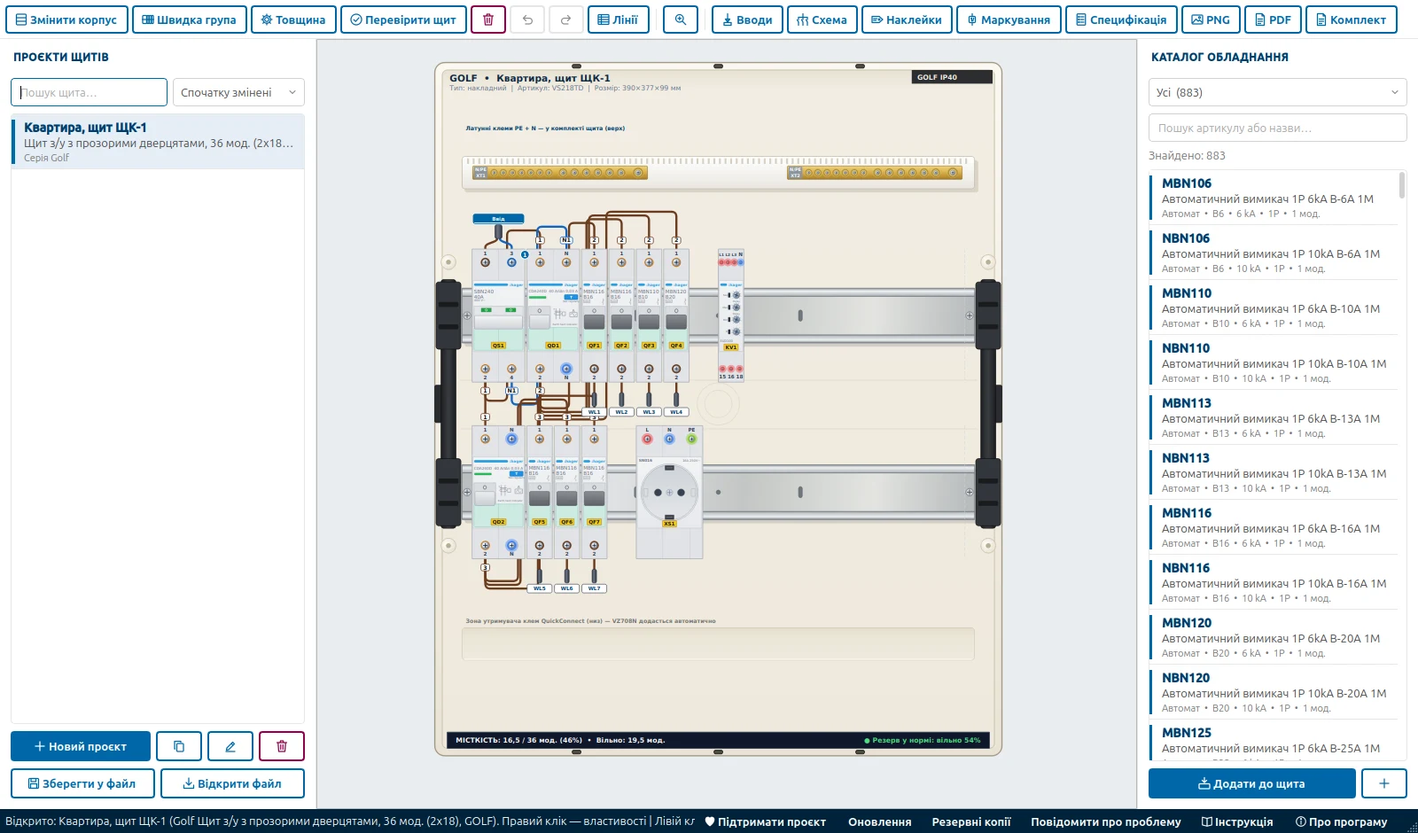
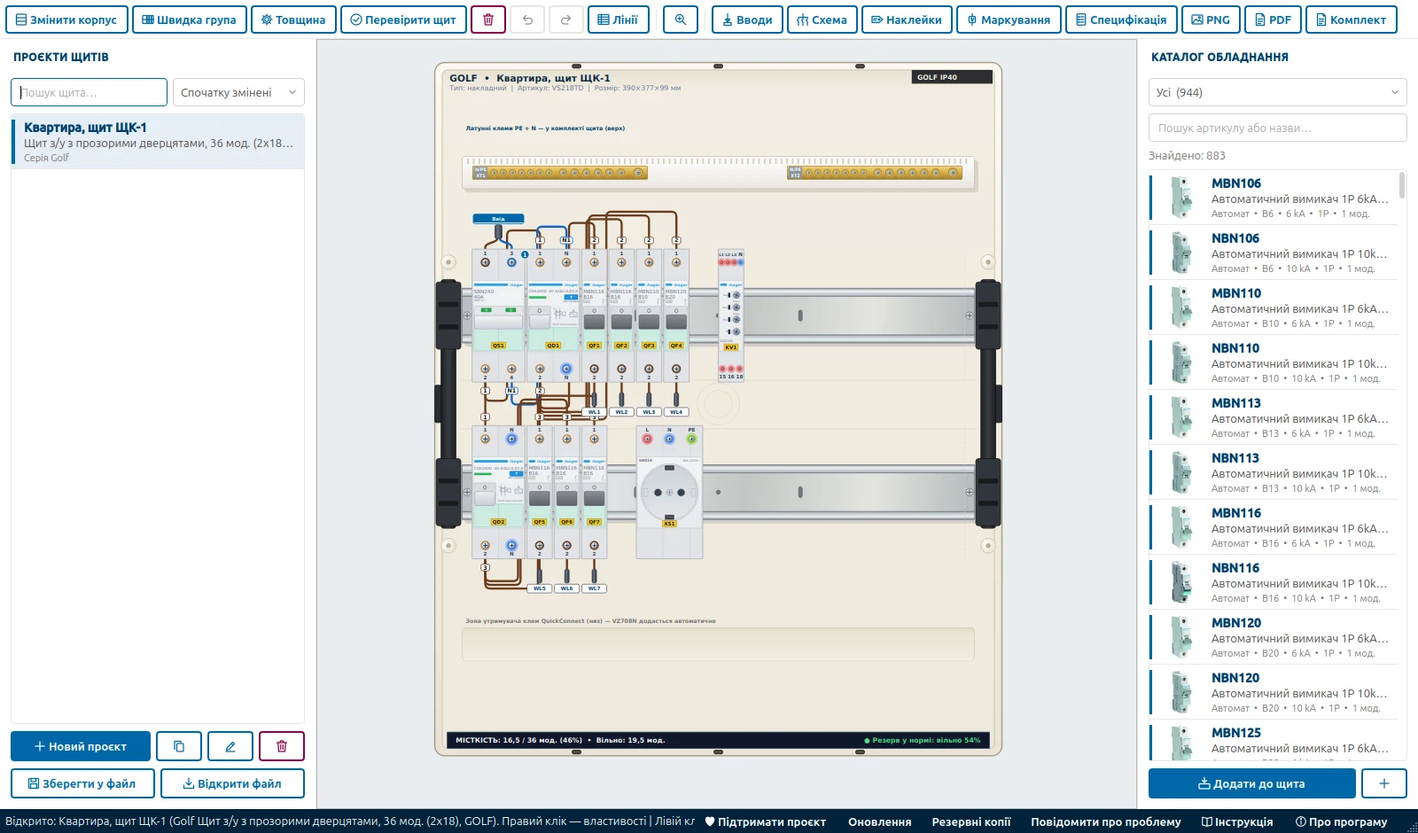
Оновлення сайту

Changed region(s): [[0.8125, 0.216, 0.9688, 0.9255]]

diff --git a/guide/index.html b/guide/index.html
@@ -42,6 +42,7 @@
       <li><a href="#install">Встановлення</a></li>
       <li><a href="#window">Головне вікно</a></li>
       <li><a href="#project">Новий щит і корпус</a></li>
+      <li><a href="#universn">Щити Univers N</a></li>
       <li><a href="#devices">Апарати на DIN-рейках</a></li>
       <li><a href="#properties">Властивості апарата</a></li>
       <li><a href="#custom">Власні прилади</a></li>
@@ -70,7 +71,7 @@
 
     <h2 id="install">1. Встановлення</h2>
     <ol>
-      <li><a href="https://github.com/YevgenZhylenkov/enclosure-designer-releases/releases/download/v2.11-beta/EnclosureDesigner-Setup-2.11-beta.exe">Завантажте інсталятор</a> (Windows 10 / 11, 64-біт).</li>
+      <li><a href="https://github.com/YevgenZhylenkov/enclosure-designer-releases/releases/download/v2.13-beta/EnclosureDesigner-Setup-2.13-beta.exe">Завантажте інсталятор</a> (Windows 10 / 11, 64-біт).</li>
       <li>Запустіть файл <code>EnclosureDesigner-Setup-….exe</code>. Права адміністратора не потрібні — програма
         встановлюється для поточного користувача.</li>
       <li>Якщо з'явиться синє вікно <b>«Windows захистив ваш комп'ютер»</b>, натисніть <b>«Докладніше»</b> →
@@ -102,7 +103,7 @@
     <ol>
       <li>Натисніть <b>«Новий проєкт»</b>.</li>
       <li>Вкажіть <b>назву</b> (наприклад, «Квартира, ЩК-1»), <b>мережу живлення</b> — однофазну чи трифазну,
-        <b>серію щита</b> (Volta, Golf, Vega, Cosmos, Vector, Univers FW…) і конкретний <b>артикул</b> корпусу. У полі «Параметри»
+        <b>серію щита</b> (Volta, Golf, Vega, Cosmos, Vector, Univers FW, Univers N…) і конкретний <b>артикул</b> корпусу. У полі «Параметри»
         видно кількість рядів, модулів і розміри.</li>
       <li>Натисніть «Створити» — щит з'явиться по центру. Комплектні клеми N / PE і тримачі клем, що входять у корпус,
         програма додає сама. Латунні клеми N і PE щитів Golf, Vega і Cosmos стоять на одному тримачі: перетягніть одну з них —
@@ -135,11 +136,43 @@
       У тому ж меню — «Перейменувати…», «Примітка до щита…» (див. <a href="#notes">підписи й примітки</a>),
       «Зберегти у файл…», «Видалити щит».</p>
 
+    <h3 id="universn">Щити Univers N</h3>
+    <p>Щити Univers N (FP…SN2) — навісні висотою від 500 до 1700 мм на 1–5 секцій і на підлогу FP21SN2…FP25SN2
+      (шафа 1850 мм на цоколі 100 мм). Такий щит постачається <b>порожнім</b>: усередині — сітка ячейок 250 × 150 мм,
+      DIN-рейок немає. Рейки приходять разом із <b>блоками</b> Univers N, а апарати ставляться на рейки блоків.</p>
+    <ol>
+      <li>Відкрийте щит Univers N — у списку категорій каталогу з'явиться розділ <b>«Univers N»</b>: несучі шини
+        UN02A…UN12A і блоки UD… (для модульних апаратів, клемників, з монтажною плитою, порожні тощо).</li>
+      <li>Перетягніть блок у сітку щита або клацніть по ньому двічі — він стане в перше вільне місце згори.
+        Якщо під блоком ще немає несучих шин, програма поставить їх сама найдешевшим способом: комплект на всю
+        висоту секції, для блока 500 мм — комплект на дві секції. Де шини стикуються по висоті, у специфікацію
+        додаються поперечина UT12PN / UT12QN і з'єднувачі UT90F. Шини можна поставити й самому: перетягніть
+        комплект у секцію (для блоків 250 мм) або на лінію між секціями (для блоків 500 мм).</li>
+      <li>Апарати ставляться на рейки блоків як звичайно: з каталогу, перетягуванням (і з блока на блок), шинами KDN,
+        проводами, розводкою, швидкою групою й заготовками. Ряди щита — це рейки блоків згори вниз, зліва направо.
+        Усередині блока рамка виділення тягнеться, як на вільному місці щита: виділяються лише апарати, а сам блок
+        виділяється клацанням по його шапці з артикулом або по краю. Рамка, що зачепила лише частину блока,
+        виділяє апарати на ньому; щоб виділити блок разом з апаратами, обведіть його рамкою цілком. Так само
+        рамка виділяє несучі шини — лише якщо охоплює обидві шини комплекту на всю висоту; клацанням шини
+        виділяються лише там, де їх не закриває блок.</li>
+      <li>Блоки UD21B4 і UD31B4 мають над рейками дві латунні шини N і PE з клемами 4 мм² (2 × 13 і 2 × 22) — вони
+        ставляться разом із блоком і, як і полоси-заглушки ZZ35S / ZZ34S з комплекту блоків UD21B5, UD11A4 та UD21A4,
+        потрапляють у специфікацію як такі, що входять у комплект блоків і окремо не замовляються. Вільні прорізи кришок
+        можна закрити заглушками S35S чи ZZ35S з розділу «Заглушка».</li>
+    </ol>
+    <p>Видалити блок — правий клік по ньому → «Видалити блок» (разом з апаратами на його рейках і їхніми проводами).
+      Несучі шини — правий клік → «Видалити несучі шини»; шини, на яких тримаються блоки, програма не видалить,
+      поки стоять ці блоки (виділіть і видаліть їх разом). «Змінити корпус» переводить щит лише в інший щит Univers N:
+      блоки мають уміститися в його сітку, шини на всю висоту замінюються комплектом під нову висоту.</p>
+    <p>Вертикальні шини KCL / KCF / KCN у щит Univers N не підходять: вони з'єднують ряди з кроком 125 мм, а рейки
+      блоків стоять через 150 мм — ряди з'єднуйте проводами. Наклейки на пластрон робляться по рейках блоків, а на
+      аркуші зовнішнього вигляду в комплекті документів видно кришки блоків з апаратами в прорізах.</p>
+
     <h2 id="devices">4. Апарати на DIN-рейках</h2>
     <h3>Пошук у каталозі</h3>
     <p>Оберіть категорію у списку над каталогом (автомати, автомати з дуговим захистом, ПЗВ, диф. автомати, ДАВ з дуговим захистом, реле, розетки…) або введіть
       артикул чи частину назви в поле пошуку, наприклад <code>MBN116</code> або <code>ПЗВ 40</code>. Під кожною
-      позицією видно характеристику, номінал, полюси й ширину в модулях. Фільтри під пошуком звужують список
+      позицією видно мініатюру апарата, характеристику, номінал, полюси й ширину в модулях. Фільтри під пошуком звужують список
       за полюсами, характеристикою, номіналом, струмом витоку, типом ПЗВ і відключною здатністю (kA).</p>
     <h3>Додавання на щит</h3>
     <ul>
@@ -642,7 +675,7 @@
     <div>
       <a href="../guide/">Інструкція</a> •
       <a href="../changelog/">Історія версій</a> •
-      <a href="https://github.com/YevgenZhylenkov/enclosure-designer-releases/releases/download/v2.11-beta/EnclosureDesigner-Setup-2.11-beta.exe">Завантажити</a> •
+      <a href="https://github.com/YevgenZhylenkov/enclosure-designer-releases/releases/download/v2.13-beta/EnclosureDesigner-Setup-2.13-beta.exe">Завантажити</a> •
       <a href="https://donatello.to/enclosure_designer" target="_blank" rel="noopener">Підтримати</a><br>
       Зворотний зв'язок: <a href="mailto:yevhen.zhylenkov@gmail.com">yevhen.zhylenkov@gmail.com</a>
     </div>

diff --git a/index.html b/index.html
@@ -44,11 +44,11 @@
       <p class="lead">Зберіть модульний електрощит на екрані: корпус, апарати на DIN-рейках, проводи з маркуванням —
         і отримайте специфікацію з цінами та наклейки на пластрон за кілька хвилин.</p>
       <div class="cta">
-        <a class="btn big" href="https://github.com/YevgenZhylenkov/enclosure-designer-releases/releases/download/v2.11-beta/EnclosureDesigner-Setup-2.11-beta.exe"><svg viewBox="0 0 24 24" fill="none" stroke="currentColor" stroke-width="2" stroke-linecap="round" stroke-linejoin="round" aria-hidden="true"><path d="M21 15v4a2 2 0 0 1-2 2H5a2 2 0 0 1-2-2v-4"/><polyline points="7 10 12 15 17 10"/><line x1="12" y1="15" x2="12" y2="3"/></svg>Завантажити для Windows</a>
+        <a class="btn big" href="https://github.com/YevgenZhylenkov/enclosure-designer-releases/releases/download/v2.13-beta/EnclosureDesigner-Setup-2.13-beta.exe"><svg viewBox="0 0 24 24" fill="none" stroke="currentColor" stroke-width="2" stroke-linecap="round" stroke-linejoin="round" aria-hidden="true"><path d="M21 15v4a2 2 0 0 1-2 2H5a2 2 0 0 1-2-2v-4"/><polyline points="7 10 12 15 17 10"/><line x1="12" y1="15" x2="12" y2="3"/></svg>Завантажити для Windows</a>
         <a class="btn big ghost" href="guide/">Інструкція</a>
       </div>
       <p class="meta">
-        Версія <b>2.11-beta</b>         • <b>28,1 МБ</b>        • без реєстрації • без прав адміністратора
+        Версія <b>2.13-beta</b>         • <b>29,5 МБ</b>        • без реєстрації • без прав адміністратора
       </p>
       <p class="beta"><b>Програма ще в розробці (бета-версія).</b> Можливі помилки, збої та неточності — у каталозі,
         цінах, схемах і розрахунках. Перевіряйте результат і <a href="mailto:yevhen.zhylenkov@gmail.com">повідомляйте про
@@ -68,6 +68,8 @@
     <div class="grid c3">
       <div class="card"><div class="ico"><svg viewBox="0 0 24 24" fill="none" stroke="currentColor" stroke-width="2" stroke-linecap="round" stroke-linejoin="round" aria-hidden="true"><rect x="3" y="3" width="18" height="18" rx="2"/><line x1="3" y1="9" x2="21" y2="9"/><line x1="3" y1="15" x2="21" y2="15"/></svg></div><h3>Корпуси Hager</h3>
         <p>Volta, Golf, Vega, Cosmos, Vector, Univers FW та інші — з реальною кількістю рядів і модулів. Корпус можна змінити будь-коли, апарати лишаться на місцях.</p></div>
+      <div class="card"><div class="ico"><svg viewBox="0 0 24 24" fill="none" stroke="currentColor" stroke-width="2" stroke-linecap="round" stroke-linejoin="round" aria-hidden="true"><polygon points="12 2 2 7 12 12 22 7 12 2"/><polyline points="2 17 12 22 22 17"/><polyline points="2 12 12 17 22 12"/></svg></div><h3>Щити Univers N</h3>
+        <p>Порожній щит із сіткою ячейок: блоки для апаратів, клемників і монтажних плит стають у сітку, несучі шини під них програма підбирає сама — найдешевшим способом. Апарати — на рейках блоків, у специфікації — блоки, шини й усе, що входить у комплект.</p></div>
       <div class="card"><div class="ico"><svg viewBox="0 0 24 24" fill="none" stroke="currentColor" stroke-width="2" stroke-linecap="round" stroke-linejoin="round" aria-hidden="true"><rect x="3" y="6" width="4" height="12" rx="1"/><rect x="8.5" y="6" width="4" height="12" rx="1"/><rect x="14" y="6" width="7" height="12" rx="1"/></svg></div><h3>Каталог апаратів</h3>
         <p>Сотні позицій офіційного каталогу Hager з фільтрами й пошуком за артикулом. Перетягніть апарат на рейку — програма не дасть вийти за межі чи накласти апарати.</p></div>
       <div class="card"><div class="ico"><svg viewBox="0 0 24 24" fill="none" stroke="currentColor" stroke-width="2" stroke-linecap="round" stroke-linejoin="round" aria-hidden="true"><circle cx="5" cy="6" r="2"/><circle cx="19" cy="18" r="2"/><path d="M5 8v6a4 4 0 0 0 4 4h8"/></svg></div><h3>Проводи і маркування</h3>
@@ -181,10 +183,10 @@
       <p>Інсталятор для Windows 10 / 11 (64-біт). Встановлюється без прав адміністратора, подальші оновлення програма
         пропонує сама.</p>
       <div class="cta">
-        <a class="btn big" href="https://github.com/YevgenZhylenkov/enclosure-designer-releases/releases/download/v2.11-beta/EnclosureDesigner-Setup-2.11-beta.exe"><svg viewBox="0 0 24 24" fill="none" stroke="currentColor" stroke-width="2" stroke-linecap="round" stroke-linejoin="round" aria-hidden="true"><path d="M21 15v4a2 2 0 0 1-2 2H5a2 2 0 0 1-2-2v-4"/><polyline points="7 10 12 15 17 10"/><line x1="12" y1="15" x2="12" y2="3"/></svg>Завантажити інсталятор</a>
+        <a class="btn big" href="https://github.com/YevgenZhylenkov/enclosure-designer-releases/releases/download/v2.13-beta/EnclosureDesigner-Setup-2.13-beta.exe"><svg viewBox="0 0 24 24" fill="none" stroke="currentColor" stroke-width="2" stroke-linecap="round" stroke-linejoin="round" aria-hidden="true"><path d="M21 15v4a2 2 0 0 1-2 2H5a2 2 0 0 1-2-2v-4"/><polyline points="7 10 12 15 17 10"/><line x1="12" y1="15" x2="12" y2="3"/></svg>Завантажити інсталятор</a>
       </div>
       <p class="meta">
-        Версія <b>2.11-beta</b>         • розмір <b>28,1 МБ</b>        • програма в стадії бета-тестування
+        Версія <b>2.13-beta</b>         • розмір <b>29,5 МБ</b>        • програма в стадії бета-тестування
       </p>
       <ul class="small">
         <li>Якщо Windows SmartScreen покаже «Windows захистив ваш комп'ютер» — натисніть «Докладніше» → «Усе одно запустити».
@@ -193,8 +195,8 @@
       </ul>
     </div>
         <div class="notes">
-      <h3>Що нового у версії 2.11-beta</h3>
-      <ul><li>вертикальні шини KCL, KCF, KCN з&#039;єднують апарати 2–4 рядів щита;</li><li>вилочні шини KD303M / KD304M і клемник живлення KF30M для автоматів захисту двигуна;</li><li>додаткові контакти й розчіплювачі автоматів захисту двигуна (MZ520N, MZ527N, MZ523N, MZ528N, MZ529N);</li><li>додатковий контакт ESC080 для контакторів;</li><li>додаткові пристрої MZ — також для дифавтоматів 1P+N і ПЗВ 10 кА, блок-контакт CZ001 для ПЗВ 6 кА;</li><li>прохідні клеми KR025L і KR040L на DIN-рейку;</li><li>автомати й дифавтомати з дуговим захистом — в окремих розділах каталогу;</li><li>у каталозі автоматів — фільтр за відключною здатністю (кА);</li><li>у специфікації — торцеві кришки шин і захисні чохли KZ059 на вільні місця шин;</li><li>однаковий логотип на всіх апаратах.</li></ul>      <p class="small" style="margin:1em 0 0"><a href="changelog/" style="color:#8cc8f0">Уся історія версій →</a></p>
+      <h3>Що нового у версії 2.13-beta</h3>
+      <ul><li>щити Univers N (навісні й на підлогу): блоки з рейками, несучі шини, наклейки, зовнішній вигляд і специфікація;</li><li>рамка виділення бере блок і несучі шини Univers N лише цілком охоплені, а всередині блока — апарати на рейках;</li><li>виділені блок і шини Univers N помітніші;</li><li>у каталозі — мініатюри апаратів.</li></ul>      <p class="small" style="margin:1em 0 0"><a href="changelog/" style="color:#8cc8f0">Уся історія версій →</a></p>
     </div>
       </div>
 </section>
@@ -248,7 +250,7 @@
     <div>
       <a href="guide/">Інструкція</a> •
       <a href="changelog/">Історія версій</a> •
-      <a href="https://github.com/YevgenZhylenkov/enclosure-designer-releases/releases/download/v2.11-beta/EnclosureDesigner-Setup-2.11-beta.exe">Завантажити</a> •
+      <a href="https://github.com/YevgenZhylenkov/enclosure-designer-releases/releases/download/v2.13-beta/EnclosureDesigner-Setup-2.13-beta.exe">Завантажити</a> •
       <a href="https://donatello.to/enclosure_designer" target="_blank" rel="noopener">Підтримати</a><br>
       Зворотний зв'язок: <a href="mailto:yevhen.zhylenkov@gmail.com">yevhen.zhylenkov@gmail.com</a>
     </div>

diff --git a/changelog/index.html b/changelog/index.html
@@ -41,8 +41,12 @@
     або натисніть «Оновлення» в рядку стану.</p>
   <p class="beta"><b>Програма ще в розробці (бета-версія).</b> Можливі помилки, збої та неточності.
     Про знайдені проблеми пишіть на <a href="mailto:yevhen.zhylenkov@gmail.com">yevhen.zhylenkov@gmail.com</a>.</p>
+    <section class="release" id="v2.13-beta">
+    <h2>Версія 2.13-beta <span class="badge">поточна</span></h2>
+    <p class="muted small">24.11.2026</p>
+    <ul><li>щити Univers N (навісні й на підлогу): блоки з рейками, несучі шини, наклейки, зовнішній вигляд і специфікація;</li><li>рамка виділення бере блок і несучі шини Univers N лише цілком охоплені, а всередині блока — апарати на рейках;</li><li>виділені блок і шини Univers N помітніші;</li><li>у каталозі — мініатюри апаратів.</li></ul>  </section>
     <section class="release" id="v2.11-beta">
-    <h2>Версія 2.11-beta <span class="badge">поточна</span></h2>
+    <h2>Версія 2.11-beta</h2>
     <p class="muted small">22.11.2026</p>
     <ul><li>вертикальні шини KCL, KCF, KCN з&#039;єднують апарати 2–4 рядів щита;</li><li>вилочні шини KD303M / KD304M і клемник живлення KF30M для автоматів захисту двигуна;</li><li>додаткові контакти й розчіплювачі автоматів захисту двигуна (MZ520N, MZ527N, MZ523N, MZ528N, MZ529N);</li><li>додатковий контакт ESC080 для контакторів;</li><li>додаткові пристрої MZ — також для дифавтоматів 1P+N і ПЗВ 10 кА, блок-контакт CZ001 для ПЗВ 6 кА;</li><li>прохідні клеми KR025L і KR040L на DIN-рейку;</li><li>автомати й дифавтомати з дуговим захистом — в окремих розділах каталогу;</li><li>у каталозі автоматів — фільтр за відключною здатністю (кА);</li><li>у специфікації — торцеві кришки шин і захисні чохли KZ059 на вільні місця шин;</li><li>однаковий логотип на всіх апаратах.</li></ul>  </section>
     <section class="release" id="v2.10-beta">
@@ -177,7 +181,7 @@
     <h2>Версія 1.3-beta</h2>
     <p class="muted small">05.11.2026</p>
     <ul><li>однолінійна схема: котушка контактора й контакти з прив&#039;язкою до реле (KM1, KM1.1, KM1.2);</li><li>щити Vector: комплектні клеми, набори VZ461–VZ464 у каталозі;</li><li>номери клем на корпусах апаратів;</li><li>виділений провід підсвічує гвинти своїх клем;</li><li>таймери EHN010 / EHN011: усі клеми знизу у два ряди.</li></ul>  </section>
-    <p><a class="btn" href="https://github.com/YevgenZhylenkov/enclosure-designer-releases/releases/download/v2.11-beta/EnclosureDesigner-Setup-2.11-beta.exe"><svg viewBox="0 0 24 24" fill="none" stroke="currentColor" stroke-width="2" stroke-linecap="round" stroke-linejoin="round" aria-hidden="true"><path d="M21 15v4a2 2 0 0 1-2 2H5a2 2 0 0 1-2-2v-4"/><polyline points="7 10 12 15 17 10"/><line x1="12" y1="15" x2="12" y2="3"/></svg>Завантажити останню версію</a></p>
+    <p><a class="btn" href="https://github.com/YevgenZhylenkov/enclosure-designer-releases/releases/download/v2.13-beta/EnclosureDesigner-Setup-2.13-beta.exe"><svg viewBox="0 0 24 24" fill="none" stroke="currentColor" stroke-width="2" stroke-linecap="round" stroke-linejoin="round" aria-hidden="true"><path d="M21 15v4a2 2 0 0 1-2 2H5a2 2 0 0 1-2-2v-4"/><polyline points="7 10 12 15 17 10"/><line x1="12" y1="15" x2="12" y2="3"/></svg>Завантажити останню версію</a></p>
 </main>
 <footer>
   <div class="wrap">
@@ -186,7 +190,7 @@
     <div>
       <a href="../guide/">Інструкція</a> •
       <a href="../changelog/">Історія версій</a> •
-      <a href="https://github.com/YevgenZhylenkov/enclosure-designer-releases/releases/download/v2.11-beta/EnclosureDesigner-Setup-2.11-beta.exe">Завантажити</a> •
+      <a href="https://github.com/YevgenZhylenkov/enclosure-designer-releases/releases/download/v2.13-beta/EnclosureDesigner-Setup-2.13-beta.exe">Завантажити</a> •
       <a href="https://donatello.to/enclosure_designer" target="_blank" rel="noopener">Підтримати</a><br>
       Зворотний зв'язок: <a href="mailto:yevhen.zhylenkov@gmail.com">yevhen.zhylenkov@gmail.com</a>
     </div>
